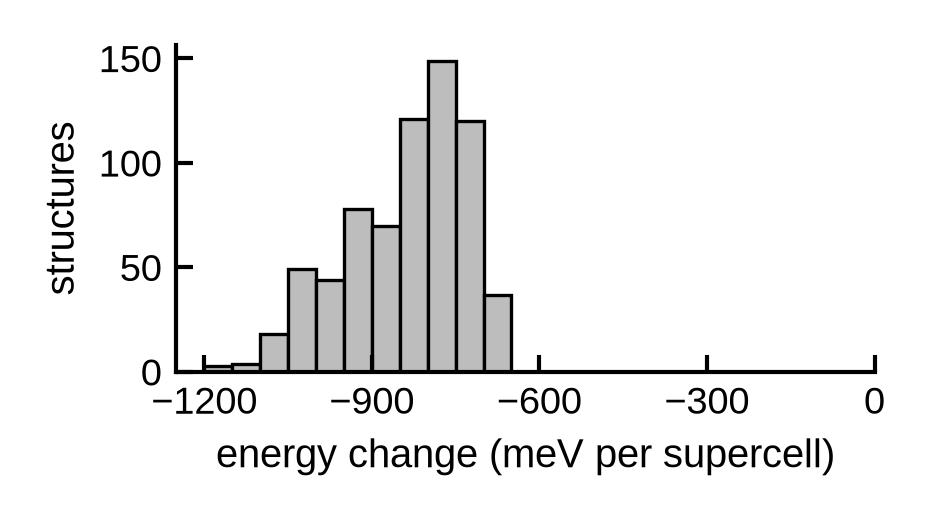
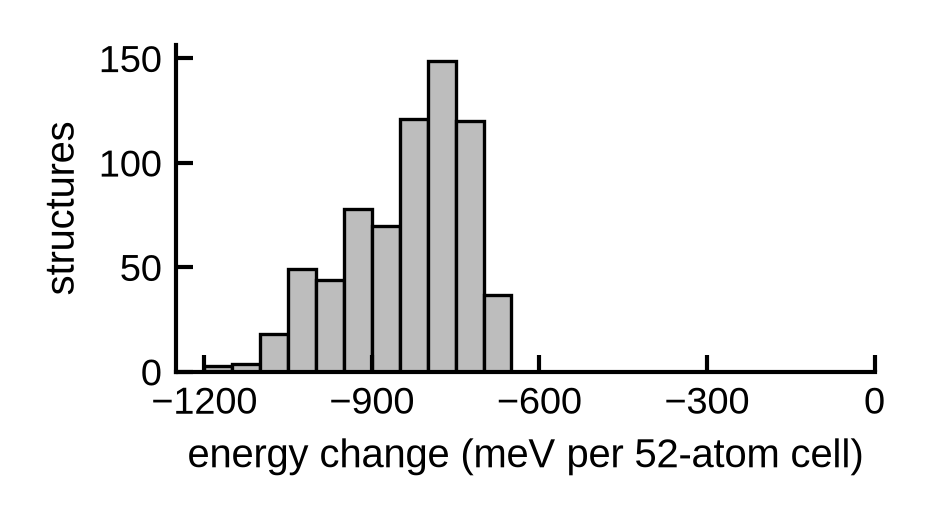
Seminar p10: field-term figures and wording for configuration sampling
The user asked for page 10 (configuration sampling and MLIP relaxation) in
field terms with a tidier layout. The exporter gains two figure functions:
the site-pair heat map redrawn with Wyckoff-site labels (cation/anion
substitution site, S 4a free S2-, S 16e in PS4, Cl 4d), checked to be the
3 x 3 main-batch table (3,615) with a negative selftest, and the anneal
histogram with the axis "per 52-atom cell" (the old "supercell" is the
4-formula-unit conventional cell) and an optional median line. A
--fig-p08 DIR flag draws just these two at the user's slot sizes.

Script and defense drop "charge-balanced placements": the old generator did
not count anion-site charges and 48 of 237 Stage-1 candidates are off.

Claude-Session: https://claude.ai/code/session_01Er41drwDRfvL6hhZbVtBiw

Changed region(s): [[0.1871, 0.8229, 0.9355, 0.9143]]

diff --git a/kb/seminars/export_cascade_briefing_csvs_2026_10.py b/kb/seminars/export_cascade_briefing_csvs_2026_10.py
@@ -567,6 +567,87 @@ def p07d(n=10):
                   'composite_score', 'value_label_2dp'], out)
 
 
+SITE_PAIR_ROWS = {'Li 24g': 'Li 24g', 'P 4b (framework)': 'P 4b', 'Li 48h': 'Li 48h'}
+SITE_PAIR_COLS = {'free sulfide': 'S 4a\n(free S$^{2{-}}$)', 'sulfur in the PS₄ corner': 'S 16e\n(in PS₄)', 'halide site': 'Cl 4d'}
+P08_USER_SLOTS = {'heatmap': (4.6, 3.3), 'hist': (3.2, 1.45)}   # user's slim page 10 (10-15) — the hand-edited deck
+
+
+def site_pair_matrix(rows):
+    """p08 matrix CSV rows (header first) → (row labels, column labels, counts) in field terms (Wyckoff site names).
+    Refuses anything but the 3 × 3 main-batch table (total 3,615, every pair populated) — a partial or relabelled
+    table must not be drawn as if it were the whole batch."""
+    head, body = rows[0], rows[1:]
+    if head[0] != 'cation_site' or head[1:4] != list(SITE_PAIR_COLS) or [r[0] for r in body] != list(SITE_PAIR_ROWS):
+        raise ValueError(f'unexpected site-pair table: {head} / {[r[0] for r in body]}')
+    counts = [[int(x) for x in r[1:4]] for r in body]
+    if sum(map(sum, counts)) != 3615 or min(map(min, counts)) <= 0:
+        raise ValueError(f'site-pair total {sum(map(sum, counts))} != 3615 or an empty pair')
+    return [SITE_PAIR_ROWS[r[0]] for r in body], [SITE_PAIR_COLS[c] for c in head[1:4]], counts
+
+
+def _plt():
+    import matplotlib
+    matplotlib.use('Agg')
+    import matplotlib.pyplot as plt
+    plt.rcParams.update({'font.family': 'Liberation Sans', 'font.size': 10, 'axes.labelsize': 10.5,
+                         'mathtext.default': 'regular'})   # S$^{2-}$: Liberation Sans has no U+207B
+    return plt
+
+
+def draw_site_pair_heatmap(out, w=4.6, h=3.3):
+    """Configurations per (cation, anion) substitution-site pair with field labels (user 10-15: 'field terms'; the
+    August image17 said 'where the dopant metal went'). Drawn at the slot size, counts on the cells, no colour bar.
+    ⛔ Does not show the 60 structures of the August re-run — they are not in the main-batch table."""
+    plt = _plt()
+    rl, cl, m = site_pair_matrix(rows_of(os.path.join(OUT, 'p08_configurations_per_site_pair_matrix.csv')))
+    tot, vmax = sum(map(sum, m)), max(map(max, m))
+    fig, ax = plt.subplots(figsize=(w, h))
+    ax.imshow(m, cmap='Blues', vmin=0, vmax=vmax * 1.05, aspect='auto')
+    for i, row in enumerate(m):
+        for j, n in enumerate(row):
+            c = 'white' if n > 0.55 * vmax else '#1f2937'
+            ax.text(j, i - 0.13, f'{n:,}', ha='center', va='center', fontsize=12, fontweight='bold', color=c)
+            ax.text(j, i + 0.22, f'{100 * n / tot:.0f} %', ha='center', va='center', fontsize=9, color=c)
+    ax.set_xticks(range(len(cl)), cl, fontsize=10)
+    ax.set_yticks(range(len(rl)), rl, fontsize=10)
+    ax.set_xticks([k + 0.5 for k in range(len(cl) - 1)], minor=True)
+    ax.set_yticks([k + 0.5 for k in range(len(rl) - 1)], minor=True)
+    ax.grid(which='minor', color='white', linewidth=2.5)
+    ax.tick_params(which='both', length=0)
+    for sp_ in ax.spines.values():
+        sp_.set_visible(False)
+    ax.set_xlabel('Anion substitution site')
+    ax.set_ylabel('Cation substitution site')
+    fig.tight_layout()
+    fig.savefig(out, dpi=300)
+    plt.close(fig)
+    return out
+
+
+def draw_anneal_hist(out, w=3.1, h=1.75, median=False):
+    """The short anneal's energy change (693 structures), plain grey bars, 50 meV bins like the August Origin recipe.
+    The cell is the 52-atom conventional cell (4 formula units) — the CSV column still says 'per supercell' (10-15: the
+    axis says '52-atom cell'; the CSV is not rewritten here). `median` draws a dashed line at the median."""
+    plt = _plt()
+    dE = [float(r[2]) for r in rows_of(os.path.join(OUT, 'p08_anneal_energy_change.csv'))[1:]]
+    fig, ax = plt.subplots(figsize=(w, h))
+    ax.hist(dE, bins=[-1250 + 50 * k for k in range(26)], color='#bdbdbd', edgecolor='black', linewidth=0.8)
+    if median:
+        s = sorted(dE)
+        med = (s[(len(s) - 1) // 2] + s[len(s) // 2]) / 2
+        ax.axvline(med, color='#2563eb', linestyle='--', linewidth=1.0)
+        ax.text(med - 20, ax.get_ylim()[1] * 0.97, 'median', color='#2563eb', fontsize=8.5, va='top', ha='right')
+    ax.set_xlim(-1250, 0)
+    ax.set_xticks([-1200, -900, -600, -300, 0])
+    ax.set_xlabel('energy change (meV per 52-atom cell)', fontsize=9.5)
+    ax.set_ylabel('structures', fontsize=9.5)
+    plain_axes(ax, 9)
+    fig.tight_layout()
+    fig.savefig(out, dpi=300)
+    plt.close(fig)
+    return out
+
+
 def figures():
     import matplotlib
     matplotlib.use('Agg')
@@ -650,18 +731,10 @@ def figures():
     ax.tick_params(axis='y', length=0)
     save(fig, 'fig_p07_stage1_score_top10.png')
 
-    # p08b: the short anneal's energy change (slide 9, under the anneal schematic) — drawn at its slot size (3.1 in) so a
-    # 9 pt label is 9 pt on the slide; plain grey bars, 50 meV bins like the August Origin recipe
-    an = rows_of(os.path.join(OUT, 'p08_anneal_energy_change.csv'))[1:]
-    dE = [float(r[2]) for r in an]
-    fig, ax = plt.subplots(figsize=(3.1, 1.75))
-    ax.hist(dE, bins=[-1250 + 50 * k for k in range(26)], color=GREY, edgecolor='black', linewidth=0.8)
-    ax.set_xlim(-1250, 0)
-    ax.set_xticks([-1200, -900, -600, -300, 0])
-    ax.set_xlabel('energy change (meV per supercell)', fontsize=9.5)
-    ax.set_ylabel('structures', fontsize=9.5)
-    plain_axes(ax, 9)
-    save(fig, 'fig_p08_anneal_energy_hist.png')
+    # p08b: the short anneal's energy change (slide 9, under the anneal schematic) — drawn at its slot size (3.1 in)
+    made.append(draw_anneal_hist(os.path.join(ASSETS, 'fig_p08_anneal_energy_hist.png')))
+    # p08c (10-15): the site-pair heat map redrawn with field labels (the decks still embed the August image17)
+    made.append(draw_site_pair_heatmap(os.path.join(ASSETS, 'fig_p08_site_pair_heatmap.png')))
 
     # p10: host stability window on a voltage axis
     seg = rows_of(os.path.join(OUT, 'p10_stability_window_host_segments.csv'))[1:]
@@ -749,6 +822,12 @@ B0 values are canonical DFT (compare per f.u. only); Stage-1 counts are explorat
 
 
 def main():
+    if '--fig-p08' in sys.argv:   # hand-edited deck (user's page 10): the two figures at its slot sizes, nothing else
+        d = sys.argv[sys.argv.index('--fig-p08') + 1]
+        os.makedirs(d, exist_ok=True)
+        print(draw_site_pair_heatmap(os.path.join(d, 'fig_p08_site_pair_heatmap.png'), *P08_USER_SLOTS['heatmap']))
+        print(draw_anneal_hist(os.path.join(d, 'fig_p08_anneal_energy_hist.png'), *P08_USER_SLOTS['hist'], median=True))
+        return
     for old in ('p12_md_campaign_runs.csv', 'p12_md_campaign_progress.csv', 'p17_site_preference_vs_ionic_radius.csv'):
         if os.path.exists(os.path.join(OUT, old)):      # renamed when the audit slide became page 11
             os.remove(os.path.join(OUT, old))
@@ -877,6 +956,18 @@ def selftest():
             raise AssertionError('p07d accepted a 91 file out of rank order')
     finally:
         OUT = saved_out
+    # site-pair table: the real matrix passes (3 × 3, 3,615); a changed count or a relabelled column is refused
+    real = rows_of(os.path.join(OUT, 'p08_configurations_per_site_pair_matrix.csv'))
+    rl, cl, m = site_pair_matrix(real)
+    assert len(rl) == len(cl) == 3 and sum(map(sum, m)) == 3615; ok += 1
+    for bad in ([real[0]] + [real[1][:1] + ['1049'] + real[1][2:]] + real[2:],
+                [real[0][:1] + ['free S'] + real[0][2:]] + real[1:]):
+        try:
+            site_pair_matrix(bad)
+        except ValueError:
+            ok += 1
+        else:
+            raise AssertionError('site_pair_matrix accepted a broken table')
     print(f'selftest PASS ({ok})')
 
 

diff --git a/kb/seminars/Research_Seminar_2026_10_13_cascade_script_ko.md b/kb/seminars/Research_Seminar_2026_10_13_cascade_script_ko.md
@@ -202,7 +202,8 @@ evidenceScope: multi-source-mixed
 > 10-14 보강 (사용자 *"이거를 대본에 잘 녹아내면 좋을듯"*): 점수 만든 방법 두 문장 · 에너지 기준 문제와 ML 이야기는 8장 · 숫자는 디펜스 S7 · S8.
 
 1단계 첫 시도로, 6월부터 8월까지 돌린 파이프라인입니다. **[가리킴: 박스를 위에서 아래로]**
-먼저 전하 균형이 맞는 치환 배치를 전부 열거했습니다. 91 개 전구체 전부입니다.
+먼저 치환 배치를 전부 열거했습니다. 91 개 전구체 전부입니다.
+> ✎ 10-15 밤: '전하 균형이 맞는' 을 뺐다 — 옛 생성기는 음이온 자리 전하를 안 셌고, 1단계 237 후보 중 48 (20 %) 이 형식전하 ≠ 0 이다 (9쪽 감사 · 디펜스 S8).
 범용 MLIP 인 UMA 로 3,675 개 구조를 완화하고, 부피가 크게 바뀐 구조는 걸렀습니다.
 그중 선별한 693 개 구조는 500 K 에서 50 ps 짧게 데운 뒤 다시 완화했습니다.
 그 구조로 지표 네 가지를 냈습니다. Li 자리 지형, 탄성률, 안정창, 계면 반응성입니다. Li 자리 지형은 구조 지표이지 확산계수가 아닙니다.
@@ -277,17 +278,18 @@ evidenceScope: multi-source-mixed
 **[클릭]**
 
 ## 9. 배치 표본과 MLIP 완화 ⏱ 14:00
-> ⏳ 10-15 화면: 오른쪽 위 담금질 도식 (작게) + **오른쪽 아래 담금질 에너지 변화 히스토그램** (원장에서 다시 그림 · 693 = 7장 파이프라인 숫자 · 8월 덱 Step 5 의 681 은 8월 재실행 전) + 맨 아래 줄 'All 693 annealed structures found a lower arrangement (median 0.81 eV per supercell).'
+> ⏳ 10-15 화면: 오른쪽 위 담금질 도식 (작게) + **오른쪽 아래 담금질 에너지 변화 히스토그램** (원장에서 다시 그림 · 693 = 7장 파이프라인 숫자 · 8월 덱 Step 5 의 681 은 8월 재실행 전) + 맨 아래 줄 'All 693 annealed structures found a lower-energy configuration (median ΔE = −0.81 eV per 52-atom cell).'
+> ✎ 10-15 밤 사용자 10쪽 pptx (*'배치 신경 써주고 필드 언어로'*) → 교체본: 첫 불렛 *'Substitution sites were enumerated, not assumed, and every configuration was relaxed.'* (옛 'every charge-balanced placement' 는 사실과 다름 — 20 % 가 형식전하 ≠ 0) · 둘째 *'A short MD anneal (500 K, 50 ps) let selected structures escape their local minima.'* · 열지도는 필드 말로 다시 그림 (양이온/음이온 치환 자리 · S 4a (free S²⁻) · S 16e (in PS₄) · Cl 4d · `export_cascade_briefing_csvs_2026_10.py --fig-p08`) · 히스토그램 축 'per 52-atom cell' (옛 'supercell' = 4 화학식 단위 기본 셀) + 중앙값 점선 · 캡션 셋 · 배치 (왼쪽 열지도를 키워 두 열 바닥을 맞춤).
 > 8월 덱의 *'the top ten of the ranking did not change'* 는 **말하지 않는다** (디펜스 §1 철회). CSV `p08_anneal_energy_change.csv`.
 
 1–3 단계를 조금 자세히 보겠습니다. **[가리킴: 왼쪽 열지도]**
-- 치환 자리를 미리 가정하지 않고, 전하 균형이 맞는 배치를 **전부** 만들었습니다.
+- 치환 자리를 미리 가정하지 않고 자리 조합을 하나씩 다 늘어놓았고, 만든 배치는 **전부** 완화했습니다.
 - 양이온 자리 셋과 음이온 자리 셋, 아홉 쌍이 모두 쓰였습니다. 본 배치가 3,615 개이고, 8월 재실행이 60 개를 더했습니다.
 - 지표에 따라서는 **같은 전구체의 배치끼리 차이가 서로 다른 전구체 사이 차이만큼 큽니다.** 그러면 그 지표로는 순위를 매길 수 없어서, 지금 지표는 탐색용으로만 씁니다. 이것이 감사의 셋째 항목입니다.
 
 **[가리킴: 오른쪽 위 도식]** 완화만 하면 가장 가까운 국소 최소에 멈춥니다. 그래서 선별한 구조는 500 K 에서 50 ps 짧게 데워 그 골짜기에서 빼낸 뒤 다시 완화했습니다.
 
-**[가리킴: 오른쪽 아래 히스토그램 → 맨 아래 줄]** 담금질한 693 개 구조가 모두 더 낮은 배치를 찾았습니다. 중앙값은 슈퍼셀당 0.81 eV 입니다. 완화만으로는 국소 최소에 머문다는 뜻이고, 이 단계가 하는 일이 그것입니다.
+**[가리킴: 오른쪽 아래 히스토그램 → 맨 아래 줄]** 담금질한 693 개 구조가 모두 에너지가 더 낮은 배치를 찾았습니다. 중앙값으로 52 원자 셀 하나당 0.81 eV 낮아졌습니다. 완화만으로는 국소 최소에 머문다는 뜻이고, 이 단계가 하는 일이 그것입니다.
 
 **[클릭]**
 
@@ -428,7 +430,7 @@ MLIP 지표의 기준이 되는 DFT 계산입니다. **[가리킴: 두 곡선]**
 | 6 | 08-18 덱의 족별 표 (family · n · examples — 'role in the design' 열은 뺐다 · 사용자 10-13) + **[문헌] 'Literature example: SiO₂ co-doping'** Jung 2026 Fig. 3d | 족별 역할은 말로: 산화물 = 강한 M–O 결합 · 염화물 = 호스트에 이미 Cl · 황화물 = 호스트와 같은 음이온 (대조) · 플루오르화물 = 가장 강한 결합 · 이동성 위험 · 브로민화물 · 요오드화물 = 더 큰 할라이드 (대조) · 질화물 = 더 높은 음이온 전하 (대조) · 공치환 실험 선례 CuCl · MgF₂ · ZnO · La₂O₃ · Nd₂O₃ · SiO₂ (17장) · 문헌 그림은 '선례' 이지 우리 후보의 검증이 아니다 · As₂S₃ 재실행은 7장 |
 | 7 | ■ 'Stage 1: screening pipeline (first attempt)' + 작은 불렛 둘 (항 다섯 · 0–1 · 손 가중치 / 에너지·탄성률·안정창에서만) + 왼쪽 점선 박스 'Pipeline' 다섯 단계 (오른쪽 회색 = 91 · 3,675 · 693 selected · 91 · 91) + 오른쪽 **8월 방법 점수 상위 10 막대** (91 개 · 강조 없음) + 캡션 둘 — 10-14 사용자 *'예전 파이프라인'* → *'틀린거라도 랭킹 한번 추가 · 옆에 plot'* | 단계마다 한 줄 · 점수는 8월 방법 그대로 + 재실행 둘 (91) · 끝 질문 '이 순위를 그대로 써도 될까요?' → 8장 감사 · 점수식 · As₂S₃ 53 위 · AlI₃ 38 위 · 남은 것 셋은 물으면 · ⛔ 막대에서 전구체를 짚지 않는다 |
 | 8 | (10-15 **빨간 블록판 기본**) 두 목록 (Audit findings 4 · Decisions recorded on Sep 12 4 + 빨강 다섯째 'A ranking margin δ, proposed but not yet set') + 분홍 상자 'Stage-1 outputs are kept as exploratory data; no dopant ranking has been approved.' + 'The run scope is set after the pilot.' · 옛 판 (Oct 14 블록) 은 검토본 | 'Found on Oct 14' 두 줄 + 녹는 에너지 시연 한 줄은 말로 (숫자 없이) · 두 목록은 행끼리 짝이 아니다 · 머신러닝은 한 줄 |
-| 9 · 10 | 9 (10-15): 열지도 + 담금질 도식 (작게) + **담금질 에너지 변화 히스토그램 (693)** + 맨 아래 줄 (모두 더 낮아짐 · 중앙 0.81 eV / 슈퍼셀) · 10: 그대로 | 9: '지표에 따라 같은 전구체 안 흩어짐 ≈ 전구체 사이' 는 말로 (8장 감사 셋째 항목의 근거) · 8월의 'top ten unchanged' 는 말하지 않는다 |
+| 9 · 10 | 9 (10-15): 열지도 + 담금질 도식 (작게) + **담금질 에너지 변화 히스토그램 (693)** + 맨 아래 줄 (모두 더 낮아짐 · 중앙 −0.81 eV / 52 원자 셀) · 10: 그대로 | 9: '지표에 따라 같은 전구체 안 흩어짐 ≈ 전구체 사이' 는 말로 (8장 감사 셋째 항목의 근거) · 8월의 'top ten unchanged' 는 말하지 않는다 |
 | 11 | (10-14 감사 뒤) ■ Decomposition stability window · 호스트 창 그림 + **[문헌] 'Literature: decomposition and intrinsic windows'** Schwietert 2021 Fig. 1 (크게) | 우리 정의 = 그 논문의 decomposition window · 옛 정의가 넓었던 이유 · 계면 산물은 10-14 에 바닥상태 상으로 다시 냈고 아직 안 쓴다 (둘 다 화면 줄은 뺐다) · 화면 bullet 은 91 전구체 · '창 없음' |
 | 12 | **[문헌] 'Literature: run-to-run spread and fit-window sensitivity'** He 2018 Fig. 3 + 'Our pilot: 10 start configurations × 2 seeds per precursor; 2–50 ps fit window.' | 그림은 '왜 반복과 고정 창이 필요한가' 의 근거이고, **10 × 2 · 2–50 ps 는 우리가 정한 값**이다 (그림에서 나온 숫자가 아니다) · 설정 UMA · NVT 1000 K · 400 ps · 204 원자 · 40 런 (화면 줄은 뺐다) · 점검 넷 · 동등성 검정 (±ln 1.5) |
 | 13 | ■ Stage 2 pilot at 1000 K · 명단 (끝 12 · 진행 1 · 대기 27) + **[문헌] 'Literature: temperature-dependent ordering'** Jung 2026 Fig. 5b | 600 K 판을 닫은 이유 · 한계 둘 · 끝나는 날 10월 21일 무렵 (화면에서 뺐다) · 오른쪽은 **문헌 물질** (Li₉P₃OS₁₁ 등) 이다 — 우리 Al₂O₃ / Al₂S₃ 순서를 말하는 그림이 아니다 |

diff --git a/kb/seminars/Research_Seminar_2026_10_13_cascade_defense_ko.md b/kb/seminars/Research_Seminar_2026_10_13_cascade_defense_ko.md
@@ -111,7 +111,8 @@ evidenceScope: multi-source-mixed
 ### S5 — 선행 스크린 (novelty 장 · 사용자 10-13 표 6 행)
 - **"전구체가 실제 합성에서 그대로 두 자리에 들어가나?"** → 그 가정을 계산 모델로 둔 것이 맞습니다.
   - 실험에서도 화합물 하나로 두 원소를 함께 넣는 공치환(CuCl · MgF₂ · ZnO · La₂O₃ · Nd₂O₃)이 보고돼 있습니다.
-  - 저희는 그 가정 아래 전하 균형이 맞는 배치를 전부 열거했습니다.
+  - 저희는 그 가정 아래 치환 배치를 전부 열거했습니다.
+    - ⚠ (10-15) '전하 균형이 맞는' 은 말하지 않는다 — 1단계 생성기는 음이온 자리 전하를 안 셌고 237 후보 중 48 (20 %) 이 형식전하 ≠ 0 이다 (S8).
   - 실제 합성 경로나 부산물은 다루지 않습니다 (한계).
 - **"가장 가까운 선행 연구는?"** → Jung 등 2026 (eTransportation) 입니다. 구별선은 셋입니다.
   1. 계가 다릅니다 — LGPS 와 아지로다이트는 골격과 Li 경로가 다릅니다.
